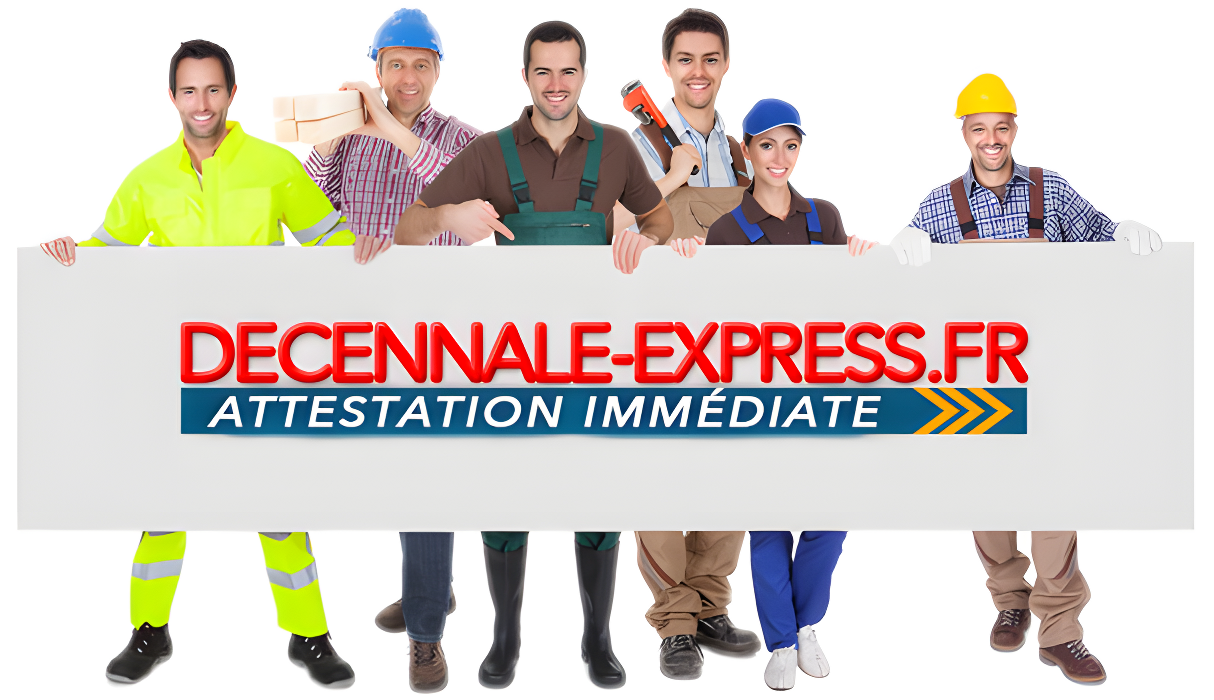
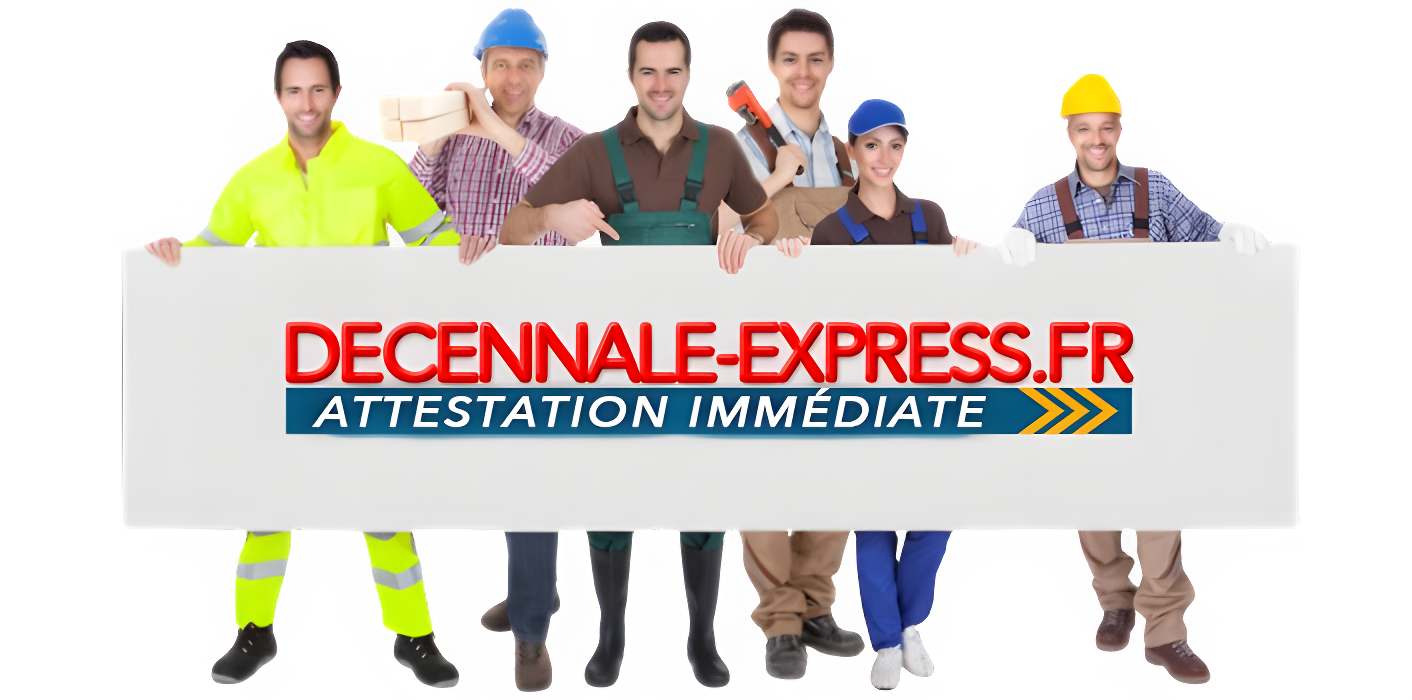
images

diff --git a/src/views/HomeView.vue b/src/views/HomeView.vue
@@ -235,9 +235,7 @@
                 </div>
                 <div class="lp-hero_image-wrapper">
                   <div data-format="landscape" class="lp-feature_image-wrap">
-                    <img loading="lazy" alt=""
-                      src="../assets/images/decennale.png"
-                      class="lp-feature_image is-lp" />
+                    <img loading="lazy" alt="" src="../assets/images/decennale.png" class="lp-feature_image is-lp" />
                   </div>
                 </div>
               </div>
@@ -250,6 +248,77 @@
             class="circle_background_linear"></div>
         </div>
       </div>
+      <section class="section">
+        <div class="spacer-large" bis_skin_checked="1"></div>
+        <div class="spacer-large" bis_skin_checked="1"></div>
+        <div class="container">
+          <div class="text-align-center">
+            <h2 class="h3">Nos partenaires</h2>
+          </div>
+          <div class="partenaire_component" bis_skin_checked="1">
+            <div class="margin-top margin-custom1" bis_skin_checked="1">
+              <div class="partenaires_list-wrapper no-scrollbar w-dyn-list" bis_skin_checked="1">
+                <div role="list" class="partenaires_list-items w-dyn-items" bis_skin_checked="1">
+                  <div role="listitem" class="home-partenaires_items w-dyn-item" bis_skin_checked="1">
+                    <div class="home-partenaires_item" bis_skin_checked="1"><img
+                        src="../assets/images/partenaires/partenaire1.png"
+                        loading="eager" alt="partenaire1" class="logo-partenaire"></div>
+                  </div>
+                  <div role="listitem" class="home-partenaires_items w-dyn-item" bis_skin_checked="1">
+                    <div class="home-partenaires_item" bis_skin_checked="1"><img
+                        src="../assets/images/partenaires/partenaire2.png"
+                        loading="eager" alt="partenaire2" class="logo-partenaire"></div>
+                  </div>
+                  <div role="listitem" class="home-partenaires_items w-dyn-item" bis_skin_checked="1">
+                    <div class="home-partenaires_item" bis_skin_checked="1"><img
+                        src="../assets/images/partenaires/partenaire3.png"
+                        loading="eager" alt="partenaire3" class="logo-partenaire"></div>
+                  </div>
+                  <div role="listitem" class="home-partenaires_items w-dyn-item" bis_skin_checked="1">
+                    <div class="home-partenaires_item" bis_skin_checked="1"><img
+                        src="../assets/images/partenaires/partenaire4.png"
+                        loading="eager" alt="partenaire4" class="logo-partenaire"></div>
+                  </div>
+                  <div role="listitem" class="home-partenaires_items w-dyn-item" bis_skin_checked="1">
+                    <div class="home-partenaires_item" bis_skin_checked="1"><img
+                        src="../assets/images/partenaires/partenaire5.png"
+                        loading="eager" alt="partenaire5" class="logo-partenaire"></div>
+                  </div>
+                </div>
+              </div>
+            </div>
+          </div>
+          <div class="partenaire_component w-condition-invisible" bis_skin_checked="1">
+            <div class="margin-top margin-custom1" bis_skin_checked="1">
+              <div class="partenaires_list-wrapper no-scrollbar w-dyn-list" bis_skin_checked="1">
+                <div role="list" class="partenaires_list-items w-dyn-items" bis_skin_checked="1">
+                  <div role="listitem" class="home-partenaires_items w-dyn-item" bis_skin_checked="1">
+                    <div class="home-partenaires_item" bis_skin_checked="1"><img
+                        src="https://cdn.prod.website-files.com/625fd2b3d45f6f53bf77e077/6570814eda3c2afc09449e2b_LOGOBIOBURGER.webp"
+                        loading="eager" alt="Bioburger" class="logo-partenaire"></div>
+                  </div>
+                  <div role="listitem" class="home-partenaires_items w-dyn-item" bis_skin_checked="1">
+                    <div class="home-partenaires_item" bis_skin_checked="1"><img
+                        src="https://cdn.prod.website-files.com/625fd2b3d45f6f53bf77e077/657082796f50e4b444fed815_LOGOBRIGADE.webp"
+                        loading="eager" alt="la brigade" class="logo-partenaire"></div>
+                  </div>
+                  <div role="listitem" class="home-partenaires_items w-dyn-item" bis_skin_checked="1">
+                    <div class="home-partenaires_item" bis_skin_checked="1"><img
+                        src="https://cdn.prod.website-files.com/625fd2b3d45f6f53bf77e077/65708163f7ba342d20442f8f_LOGOBLEND.webp"
+                        loading="eager" alt="blend" class="logo-partenaire"></div>
+                  </div>
+                  <div role="listitem" class="home-partenaires_items w-dyn-item" bis_skin_checked="1">
+                    <div class="home-partenaires_item" bis_skin_checked="1"><img
+                        src="https://cdn.prod.website-files.com/625fd2b3d45f6f53bf77e077/657081700c28a8d6019d3775_LOGOOTACOS.webp"
+                        loading="eager" alt="o tacos" class="logo-partenaire"></div>
+                  </div>
+                </div>
+              </div>
+            </div>
+          </div>
+        </div>
+        <div class="spacer-large" bis_skin_checked="1"></div>
+      </section>
       <section class="section">
         <div class="padding-section-64">
           <div class="container">

diff --git a/src/assets/orus.css b/src/assets/orus.css
@@ -12369,7 +12369,7 @@ a {
 }
 
 .lp-feature_image-wrap[data-format="landscape"] {
-    padding-top: 71.42857142857143%;
+    padding-top: 60.428571%;
     width: 100%;
 }
 
